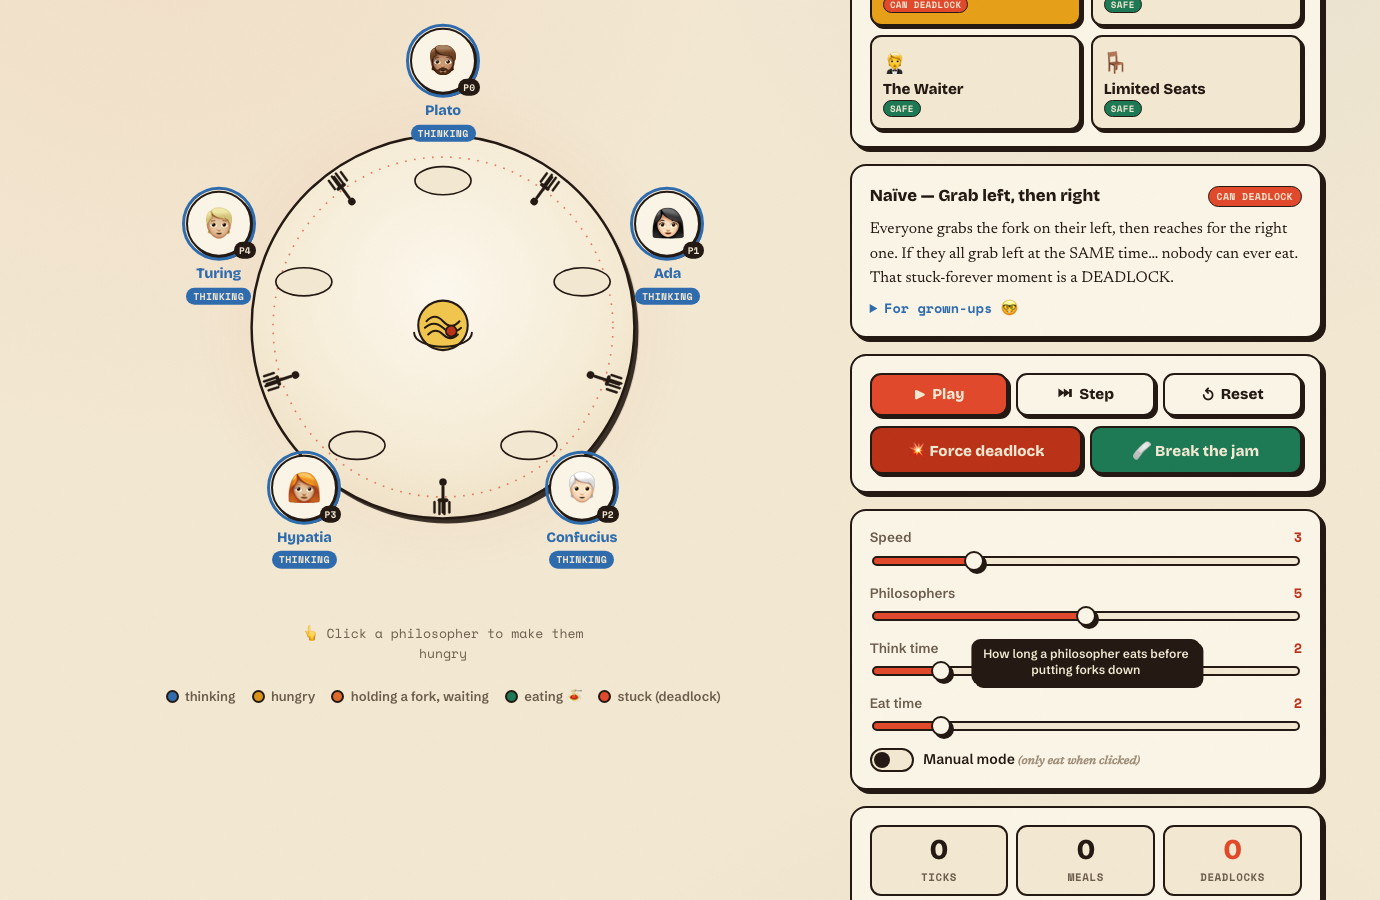
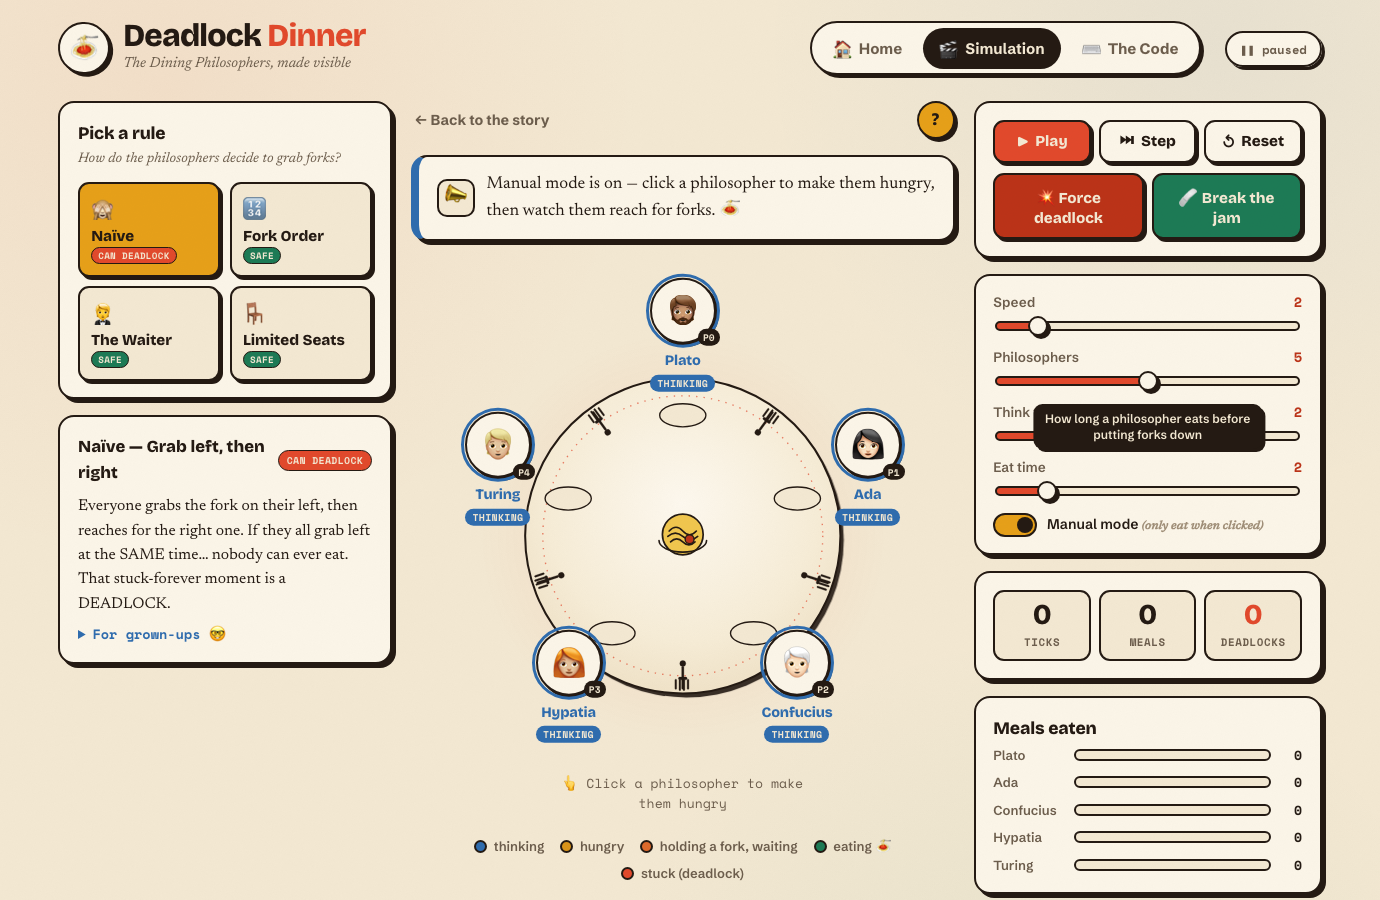
UX: manual mode by default, 3-column sim layout, slower speed
- Manual mode is now the default — philosophers only get hungry when
  clicked, so you can read the table and act deliberately. The setting now
  persists across resets/strategy changes.
- Simulation is a 3-column layout: "Pick a rule" + its explainer on the
  LEFT of the table, the table in the CENTER, and all game controls on the
  RIGHT. Responsive: table on top on tablet, single column on phones.
- All data-tip tooltips and the guided-tour target IDs (#card-strategy,
  #card-controls, #stage, #card-sliders) preserved through the restructure.
- Speed curve is now hyperbolic (2400/speed): the slowest setting is ~2.4s
  per tick (was ~1s), default 2 ≈ 1.2s. Genuinely readable.

Changed region(s): [[0.0312, 0.0, 0.9659, 1.0], [0.4674, 0.8711, 0.5297, 0.9022], [0.5297, 0.4356, 0.5609, 0.4667]]

diff --git a/public/index.html b/public/index.html
@@ -115,10 +115,10 @@
         <div class="learn__try">
           <h3>What to try first 👇</h3>
           <ol>
-            <li>Hit <b>Start the simulation</b>, keep the rule on <b>Naïve</b>, and press <b>💥 Force deadlock</b>. Watch everyone freeze.</li>
-            <li>Press <b>🩹 Break the jam</b> — one philosopher gives up a fork and the table flows again.</li>
+            <li>Hit <b>Start the simulation</b>. You're in <b>Manual mode</b>, so <b>click the philosophers</b> to make them hungry.</li>
+            <li>Keep the rule on <b>Naïve</b> and press <b>💥 Force deadlock</b>. Watch everyone freeze, then <b>🩹 Break the jam</b>.</li>
             <li>Switch the rule to <b>Fork Order</b>, <b>The Waiter</b>, or <b>Limited Seats</b> and try to force a deadlock. You can't! 🎉</li>
-            <li>Turn on <b>Manual mode</b> and click philosophers one-by-one to stage your own deadlock.</li>
+            <li>Turn <b>Manual mode</b> off to let philosophers get hungry on their own.</li>
           </ol>
         </div>
 
@@ -132,37 +132,8 @@
     <section class="panel" data-panel="sim" role="tabpanel">
       <div class="sim-layout">
 
-        <!-- ---- main: narrator + stage ---- -->
-        <div class="sim-main">
-          <div class="sim-toolbar">
-            <button class="sim-toolbar__back" id="back-home">← Back to the story</button>
-            <button class="help-btn" id="btn-help" data-tip="Show me how to use this" aria-label="How to use">?</button>
-          </div>
-
-          <div id="narrator" class="narrator narrator--info">
-            <span class="narrator__icon" aria-hidden="true">📣</span>
-            <span id="narrator-text">Welcome to dinner!</span>
-          </div>
-
-          <div class="stage" id="stage" data-tip="Click any philosopher to make them hungry">
-            <svg id="stage-svg" class="stage__svg" aria-label="Dining table with philosophers and forks"></svg>
-            <div id="stage-phils" class="stage__phils" aria-hidden="false"></div>
-            <p class="stage__hint">👆 Click a philosopher to make them hungry</p>
-          </div>
-
-          <ul class="legend" aria-label="What the colors mean">
-            <li class="legend__item"><span class="legend__dot legend__dot--thinking"></span>thinking</li>
-            <li class="legend__item"><span class="legend__dot legend__dot--hungry"></span>hungry</li>
-            <li class="legend__item"><span class="legend__dot legend__dot--waiting"></span>holding a fork, waiting</li>
-            <li class="legend__item"><span class="legend__dot legend__dot--eating"></span>eating 🍝</li>
-            <li class="legend__item"><span class="legend__dot legend__dot--deadlock"></span>stuck (deadlock)</li>
-          </ul>
-        </div>
-
-        <!-- ---- rail: controls ---- -->
-        <aside class="sim-rail">
-
-          <!-- strategy chooser -->
+        <!-- ---- LEFT: pick a rule + explainer ---- -->
+        <aside class="sim-left">
           <div class="card" id="card-strategy">
             <h2 class="card__title">Pick a rule</h2>
             <p class="card__hint">How do the philosophers decide to grab forks?</p>
@@ -190,7 +161,6 @@
             </div>
           </div>
 
-          <!-- strategy explainer -->
           <div class="card explain">
             <div class="explain__head">
               <h3 id="strat-explain-title" class="explain__title">Naïve — Grab left, then right</h3>
@@ -203,8 +173,37 @@
             </details>
             <div id="strategy-readout" class="readout" hidden></div>
           </div>
+        </aside>
 
-          <!-- transport controls -->
+        <!-- ---- CENTER: narrator + stage ---- -->
+        <div class="sim-center">
+          <div class="sim-toolbar">
+            <button class="sim-toolbar__back" id="back-home">← Back to the story</button>
+            <button class="help-btn" id="btn-help" data-tip="Show me how to use this" aria-label="How to use">?</button>
+          </div>
+
+          <div id="narrator" class="narrator narrator--info">
+            <span class="narrator__icon" aria-hidden="true">📣</span>
+            <span id="narrator-text">Welcome to dinner!</span>
+          </div>
+
+          <div class="stage" id="stage" data-tip="Click any philosopher to make them hungry">
+            <svg id="stage-svg" class="stage__svg" aria-label="Dining table with philosophers and forks"></svg>
+            <div id="stage-phils" class="stage__phils" aria-hidden="false"></div>
+            <p class="stage__hint">👆 Click a philosopher to make them hungry</p>
+          </div>
+
+          <ul class="legend" aria-label="What the colors mean">
+            <li class="legend__item"><span class="legend__dot legend__dot--thinking"></span>thinking</li>
+            <li class="legend__item"><span class="legend__dot legend__dot--hungry"></span>hungry</li>
+            <li class="legend__item"><span class="legend__dot legend__dot--waiting"></span>holding a fork, waiting</li>
+            <li class="legend__item"><span class="legend__dot legend__dot--eating"></span>eating 🍝</li>
+            <li class="legend__item"><span class="legend__dot legend__dot--deadlock"></span>stuck (deadlock)</li>
+          </ul>
+        </div>
+
+        <!-- ---- RIGHT: game controls ---- -->
+        <aside class="sim-right">
           <div class="card" id="card-controls">
             <div class="controls">
               <button id="btn-play" class="btn btn--primary" data-tip="Run it (or press Space)">
@@ -223,11 +222,10 @@
             </div>
           </div>
 
-          <!-- sliders -->
           <div class="card sliders" id="card-sliders">
             <label class="slider" data-tip="How fast the simulation runs. Lower = easier to follow">
-              <span class="slider__label">Speed <b id="ctl-speed-val">3</b></span>
-              <input id="ctl-speed" type="range" min="1" max="10" value="3" />
+              <span class="slider__label">Speed <b id="ctl-speed-val">2</b></span>
+              <input id="ctl-speed" type="range" min="1" max="10" value="2" />
             </label>
             <label class="slider" data-tip="How many philosophers sit at the table (3–7)">
               <span class="slider__label">Philosophers <b id="ctl-n-val">5</b></span>
@@ -242,13 +240,12 @@
               <input id="ctl-eat" type="range" min="1" max="8" value="2" />
             </label>
             <label class="toggle" data-tip="Philosophers only get hungry when YOU click them">
-              <input id="ctl-manual" type="checkbox" />
+              <input id="ctl-manual" type="checkbox" checked />
               <span class="toggle__track"><span class="toggle__thumb"></span></span>
               <span class="toggle__label">Manual mode <small>(only eat when clicked)</small></span>
             </label>
           </div>
 
-          <!-- stats -->
           <div class="card stats">
             <div class="stat"><span class="stat__num" id="stat-tick">0</span><span class="stat__lbl">ticks</span></div>
             <div class="stat"><span class="stat__num" id="stat-meals">0</span><span class="stat__lbl">meals</span></div>
@@ -264,7 +261,6 @@
             <h3 class="card__title">Live event log</h3>
             <ul id="log" class="log" aria-live="polite"></ul>
           </div>
-
         </aside>
       </div>
     </section>

diff --git a/public/css/styles.css b/public/css/styles.css
@@ -207,14 +207,25 @@ a { color: var(--tomato-deep); }
 
 /* ==================== sim layout ==================== */
 .sim-layout {
-  display: grid; gap: 1.4rem;
-  grid-template-columns: minmax(0, 1.55fr) minmax(310px, 0.95fr);
+  display: grid; gap: 1.2rem; align-items: start;
+  grid-template-columns: minmax(244px, 0.92fr) minmax(0, 1.5fr) minmax(280px, 0.96fr);
 }
-@media (max-width: 960px) { .sim-layout { grid-template-columns: 1fr; } }
-.sim-main { display: flex; flex-direction: column; gap: 1rem; min-width: 0;
-  animation: rise .55s .03s cubic-bezier(.2,.8,.2,1) both; }
-.sim-rail { display: flex; flex-direction: column; gap: 1rem;
-  animation: rise .55s .1s cubic-bezier(.2,.8,.2,1) both; }
+.sim-left, .sim-right { display: flex; flex-direction: column; gap: 1rem; }
+.sim-center { display: flex; flex-direction: column; gap: 1rem; min-width: 0; }
+.sim-left   { animation: rise .55s .05s cubic-bezier(.2,.8,.2,1) both; }
+.sim-center { animation: rise .55s 0s cubic-bezier(.2,.8,.2,1) both; }
+.sim-right  { animation: rise .55s .1s cubic-bezier(.2,.8,.2,1) both; }
+
+/* tablet: table on top (full width), rule + controls side-by-side below */
+@media (max-width: 1180px) {
+  .sim-layout { grid-template-columns: 1fr 1fr; }
+  .sim-center { grid-column: 1 / -1; order: -1; }
+}
+/* phone: single column, table first */
+@media (max-width: 760px) {
+  .sim-layout { grid-template-columns: 1fr; }
+  .sim-center { order: -1; }
+}
 
 /* sim toolbar (back + help button) */
 .sim-toolbar { display: flex; align-items: center; justify-content: space-between; gap: .8rem; flex-wrap: wrap; }

diff --git a/public/js/app.js b/public/js/app.js
@@ -11,12 +11,14 @@ const $  = (sel, root = document) => root.querySelector(sel);
 const $$ = (sel, root = document) => [...root.querySelectorAll(sel)];
 
 // ---- state -----------------------------------------------------------------
-const config = { n: 5, strategy: 'naive', thinkTime: 2, eatTime: 2, autoHunger: true };
+// Manual mode is ON by default: philosophers only get hungry when you click
+// them, so you can read the table and act deliberately.
+const config = { n: 5, strategy: 'naive', thinkTime: 2, eatTime: 2, autoHunger: false };
 const sim = new Simulation(config);
 
 let playing = false;
 let timer = null;
-let speed = 3;             // 1..10 (lower = easier to follow along)
+let speed = 2;             // 1..10 (lower = easier to follow along)
 let deadlockCount = 0;
 let sawDeadlock = false;
 
@@ -29,9 +31,9 @@ const scene = new Scene($('#stage-svg'), $('#stage-phils'), {
 });
 
 // ---- run loop --------------------------------------------------------------
-// Deliberately gentle by default so a human can read each move. speed 1 ≈ 1s
-// per tick, default 3 ≈ 0.8s, max 10 ≈ 0.15s for the impatient.
-function intervalMs() { return Math.round(1100 - speed * 95); }
+// Deliberately gentle. Hyperbolic curve so the slow end is genuinely slow:
+// speed 1 ≈ 2.4s per tick, default 2 ≈ 1.2s, max 10 ≈ 0.24s for the impatient.
+function intervalMs() { return Math.round(2400 / speed); }
 
 function play() {
   if (playing) return;
@@ -234,7 +236,9 @@ function wireControls() {
   // manual mode
   const manualEl = $('#ctl-manual');
   manualEl.addEventListener('change', () => {
-    sim.autoHunger = !manualEl.checked;
+    // keep config in sync so the setting survives resets / strategy changes
+    config.autoHunger = !manualEl.checked;
+    sim.autoHunger = config.autoHunger;
     flashNarrator(manualEl.checked
       ? 'Manual mode: click a philosopher to make them hungry.'
       : 'Auto mode: philosophers get hungry on their own.', 'info');
@@ -439,7 +443,7 @@ function boot() {
   reflectCodeBtns();
   setStatus();
   // gentle intro
-  flashNarrator('Welcome! 5 philosophers, 5 forks. Each needs TWO forks to eat. Press Play ▶', 'info');
+  flashNarrator('Manual mode is on — click a philosopher to make them hungry, then watch them reach for forks. 🍝', 'info');
 }
 
 document.addEventListener('DOMContentLoaded', boot);